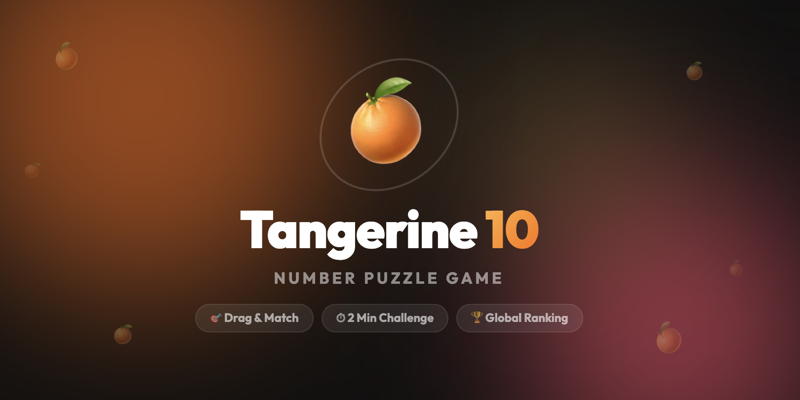
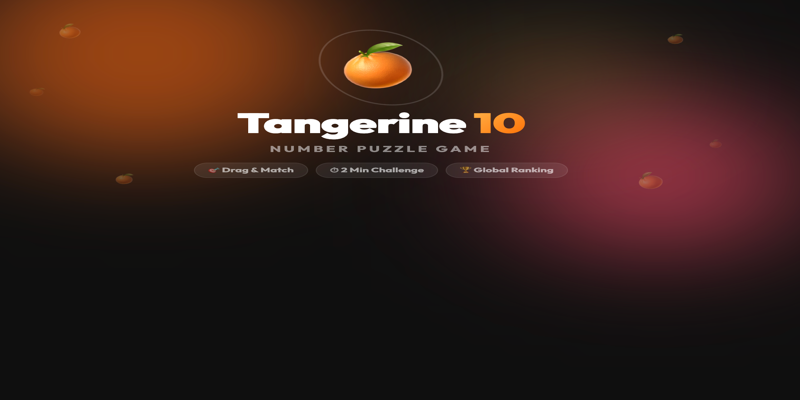
Update OG image with proper screenshot, add cache busting

diff --git a/public/og-canvas.html b/public/og-canvas.html
@@ -1,0 +1,58 @@
+<!DOCTYPE html>
+<html><head><meta charset="UTF-8">
+<link href="https://fonts.googleapis.com/css2?family=Outfit:wght@700;900&display=swap" rel="stylesheet">
+</head><body style="margin:0;padding:0;">
+<canvas id="c" width="800" height="400"></canvas>
+<script>
+var c=document.getElementById('c').getContext('2d');
+
+// 배경
+var g=c.createLinearGradient(0,0,800,400);
+g.addColorStop(0,'#1a1a1a');
+g.addColorStop(1,'#0a0a0a');
+c.fillStyle=g;
+c.fillRect(0,0,800,400);
+
+// 글로우 원 1 (오렌지)
+var r1=c.createRadialGradient(200,150,0,200,150,250);
+r1.addColorStop(0,'rgba(255,107,0,0.4)');
+r1.addColorStop(1,'rgba(255,107,0,0)');
+c.fillStyle=r1;
+c.fillRect(0,0,800,400);
+
+// 글로우 원 2 (핑크)
+var r2=c.createRadialGradient(650,300,0,650,300,200);
+r2.addColorStop(0,'rgba(255,77,109,0.3)');
+r2.addColorStop(1,'rgba(255,77,109,0)');
+c.fillStyle=r2;
+c.fillRect(0,0,800,400);
+
+// 귤 이모지
+c.font='90px serif';
+c.textAlign='center';
+c.textBaseline='middle';
+c.fillText('🍊',400,130);
+
+// 타이틀
+c.font='900 52px Outfit,sans-serif';
+c.fillStyle='#fff';
+c.fillText('Tangerine',310,250);
+c.fillStyle='#FFB74D';
+c.fillText('10',430,250);
+
+// 서브
+c.font='700 16px Outfit,sans-serif';
+c.fillStyle='rgba(255,255,255,0.5)';
+c.letterSpacing='3px';
+c.fillText('NUMBER PUZZLE GAME',400,300);
+
+// 태그
+c.font='600 12px Outfit,sans-serif';
+c.fillStyle='rgba(255,255,255,0.3)';
+c.fillText('🎯 Drag & Match    ⏱ 2 Min Challenge    🏆 Global Ranking',400,350);
+
+var a=document.createElement('a');
+a.download='og-tangerin10.png';
+a.href=document.getElementById('c').toDataURL('image/png');
+a.click();
+</script></body></html>

diff --git a/index.html b/index.html
@@ -7,12 +7,12 @@
 <title>Tangerine 10 — Number Puzzle Game</title>
 <meta property="og:title" content="Tangerine 10 — Number Puzzle Game">
 <meta property="og:description" content="2분 안에 귤을 터뜨려라! Drag numbers that add up to 10!">
-<meta property="og:image" content="https://tangerin10.web.app/og-tangerin10.png">
+<meta property="og:image" content="https://tangerin10.web.app/og-tangerin10.png?v=2">
 <meta property="og:url" content="https://tangerin10.web.app">
 <meta property="og:type" content="website">
 <meta name="twitter:card" content="summary_large_image">
 <meta name="twitter:title" content="Tangerine 10 — Number Puzzle Game">
-<meta name="twitter:image" content="https://tangerin10.web.app/og-tangerin10.png">
+<meta name="twitter:image" content="https://tangerin10.web.app/og-tangerin10.png?v=2">
 <link href="https://fonts.googleapis.com/css2?family=Outfit:wght@400;500;600;700;800;900&display=swap" rel="stylesheet">
 <script async src="https://pagead2.googlesyndication.com/pagead/js/adsbygoogle.js?client=ca-pub-5479403345572412" crossorigin="anonymous"></script>
 <script src="https://www.gstatic.com/firebasejs/10.12.0/firebase-app-compat.js"></script>
@@ -596,7 +596,7 @@ function shareKakao(){
     content:{
       title:'🍊 Tangerine 10',
       description:'나 '+S+'점 달성! 2분 안에 귤 터뜨리기 게임. 도전해봐!',
-      imageUrl:'https://tangerin10.web.app/og-tangerin10.png',
+      imageUrl:'https://tangerin10.web.app/og-tangerin10.png?v=2',
       link:{mobileWebUrl:SHARE_URL,webUrl:SHARE_URL}
     },
     buttons:[{title:'게임 하러 가기',link:{mobileWebUrl:SHARE_URL,webUrl:SHARE_URL}}]

diff --git a/public/index.html b/public/index.html
@@ -7,12 +7,12 @@
 <title>Tangerine 10 — Number Puzzle Game</title>
 <meta property="og:title" content="Tangerine 10 — Number Puzzle Game">
 <meta property="og:description" content="2분 안에 귤을 터뜨려라! Drag numbers that add up to 10!">
-<meta property="og:image" content="https://tangerin10.web.app/og-tangerin10.png">
+<meta property="og:image" content="https://tangerin10.web.app/og-tangerin10.png?v=2">
 <meta property="og:url" content="https://tangerin10.web.app">
 <meta property="og:type" content="website">
 <meta name="twitter:card" content="summary_large_image">
 <meta name="twitter:title" content="Tangerine 10 — Number Puzzle Game">
-<meta name="twitter:image" content="https://tangerin10.web.app/og-tangerin10.png">
+<meta name="twitter:image" content="https://tangerin10.web.app/og-tangerin10.png?v=2">
 <link href="https://fonts.googleapis.com/css2?family=Outfit:wght@400;500;600;700;800;900&display=swap" rel="stylesheet">
 <script async src="https://pagead2.googlesyndication.com/pagead/js/adsbygoogle.js?client=ca-pub-5479403345572412" crossorigin="anonymous"></script>
 <script src="https://www.gstatic.com/firebasejs/10.12.0/firebase-app-compat.js"></script>
@@ -596,7 +596,7 @@ function shareKakao(){
     content:{
       title:'🍊 Tangerine 10',
       description:'나 '+S+'점 달성! 2분 안에 귤 터뜨리기 게임. 도전해봐!',
-      imageUrl:'https://tangerin10.web.app/og-tangerin10.png',
+      imageUrl:'https://tangerin10.web.app/og-tangerin10.png?v=2',
       link:{mobileWebUrl:SHARE_URL,webUrl:SHARE_URL}
     },
     buttons:[{title:'게임 하러 가기',link:{mobileWebUrl:SHARE_URL,webUrl:SHARE_URL}}]
